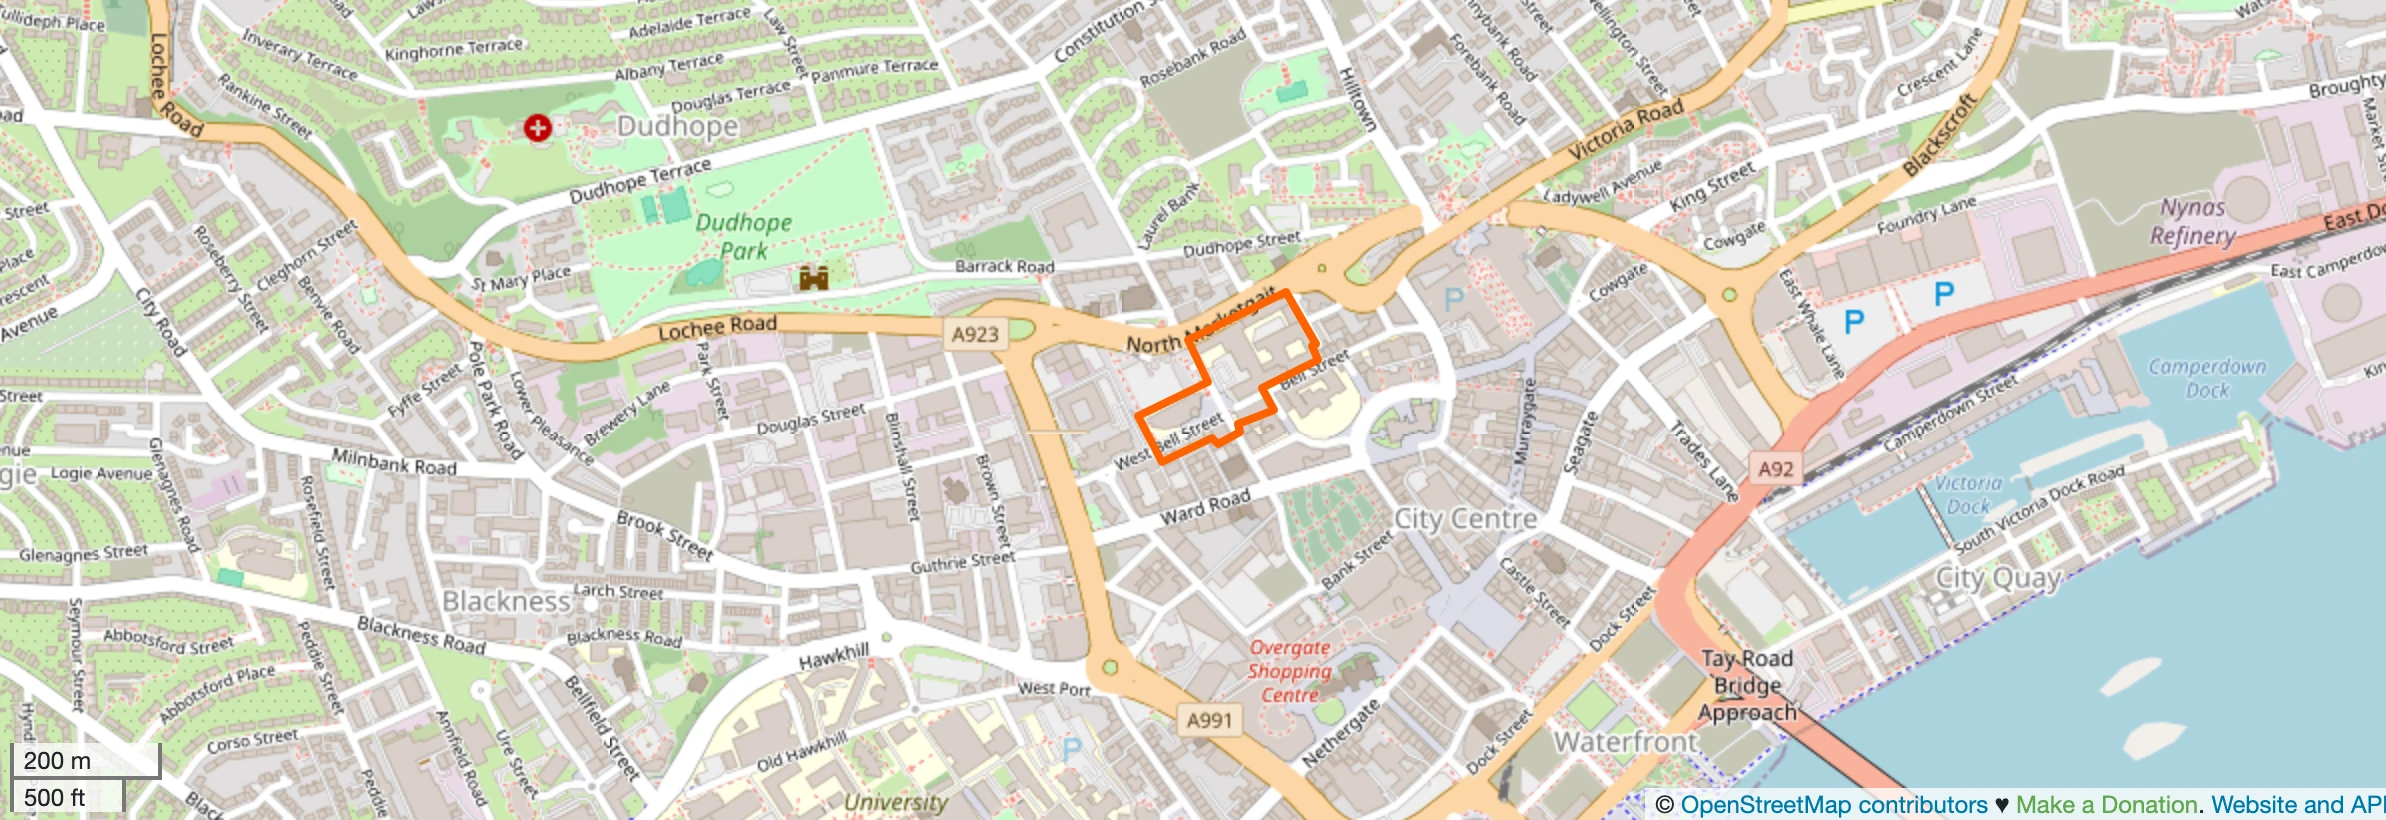
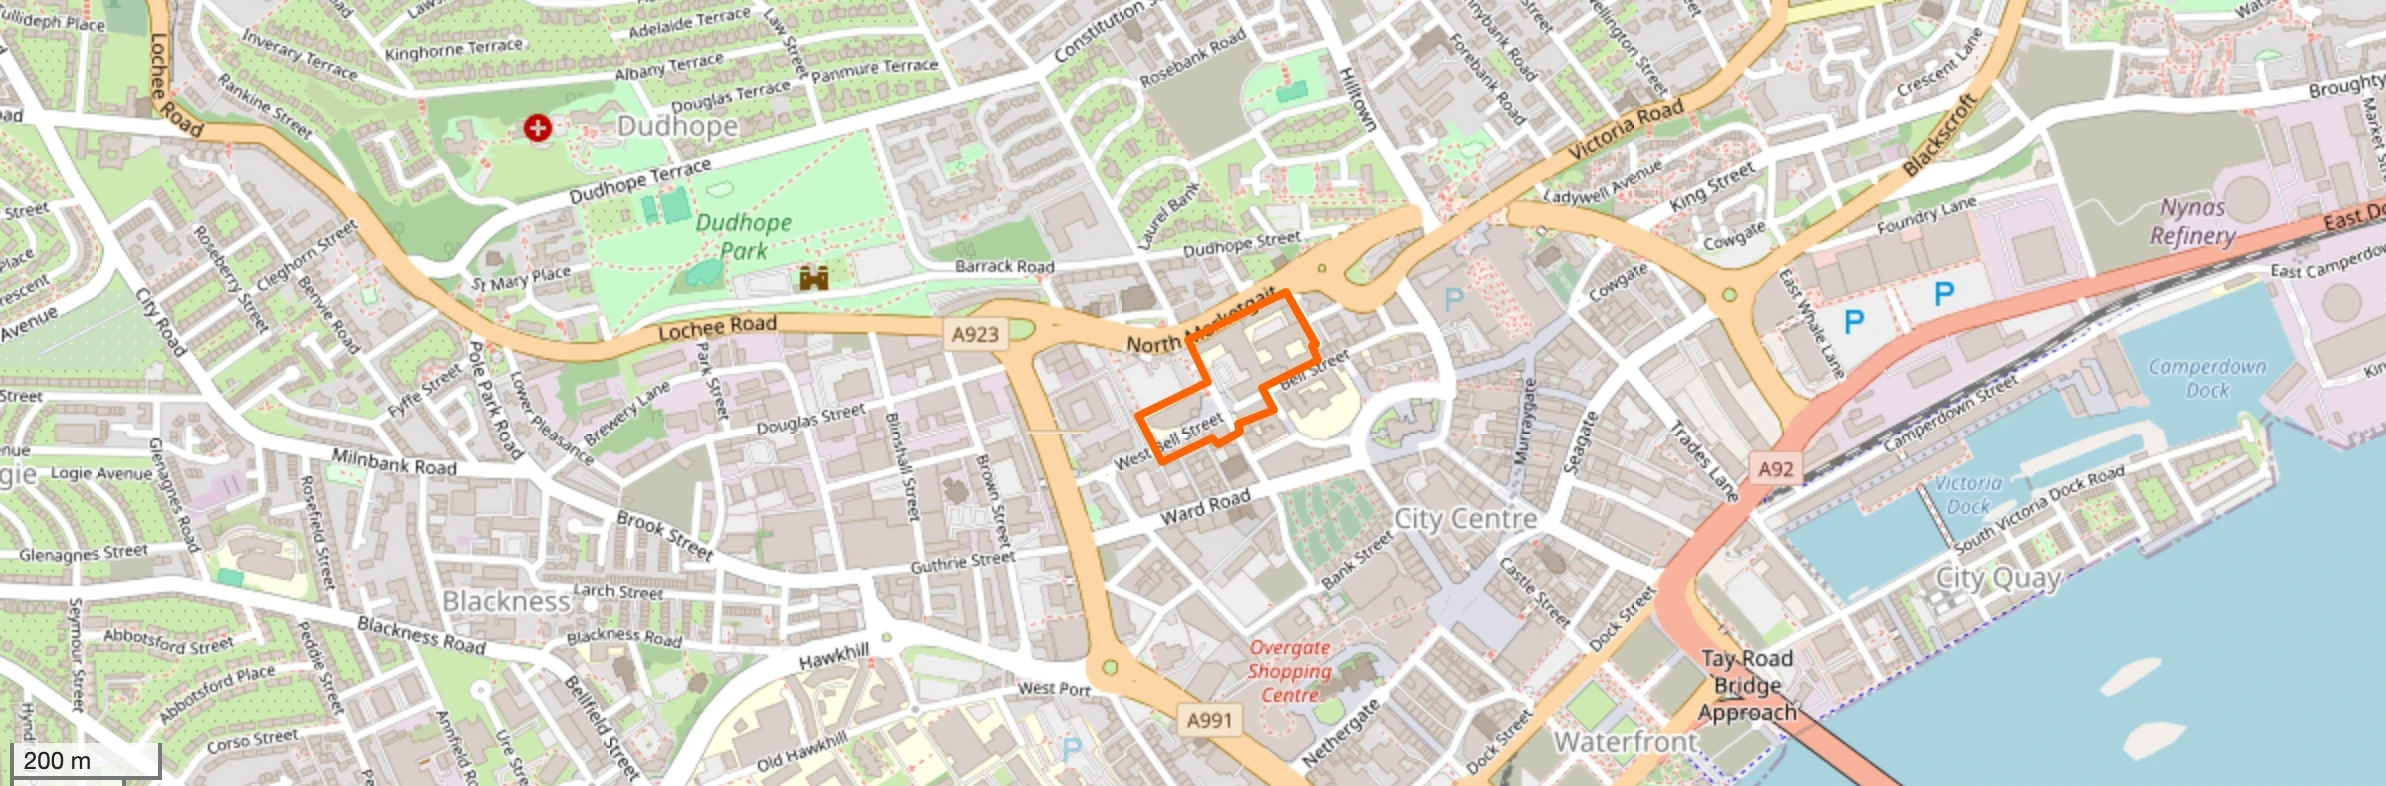
Map attribution in footer instead of in raster image

diff --git a/www/index.html b/www/index.html
@@ -1127,7 +1127,10 @@
 
         <div class="d-flex flex-column align-items-center align-items-lg-start">
           <div>
-            © Copyright <strong><span>State of the Map Europe 2025</span></strong>. All Rights Reserved
+            © Copyright <strong><span>State of the Map Europe 2025</span></strong>
+		</div>
+		<div>
+			ODbL licensed maps <a href="https://www.openstreetmap.org/copyright">© OpenStreetMap contributors</a>
           </div>
           <div class="credits">
             <!-- All the links in the footer should remain intact. -->
